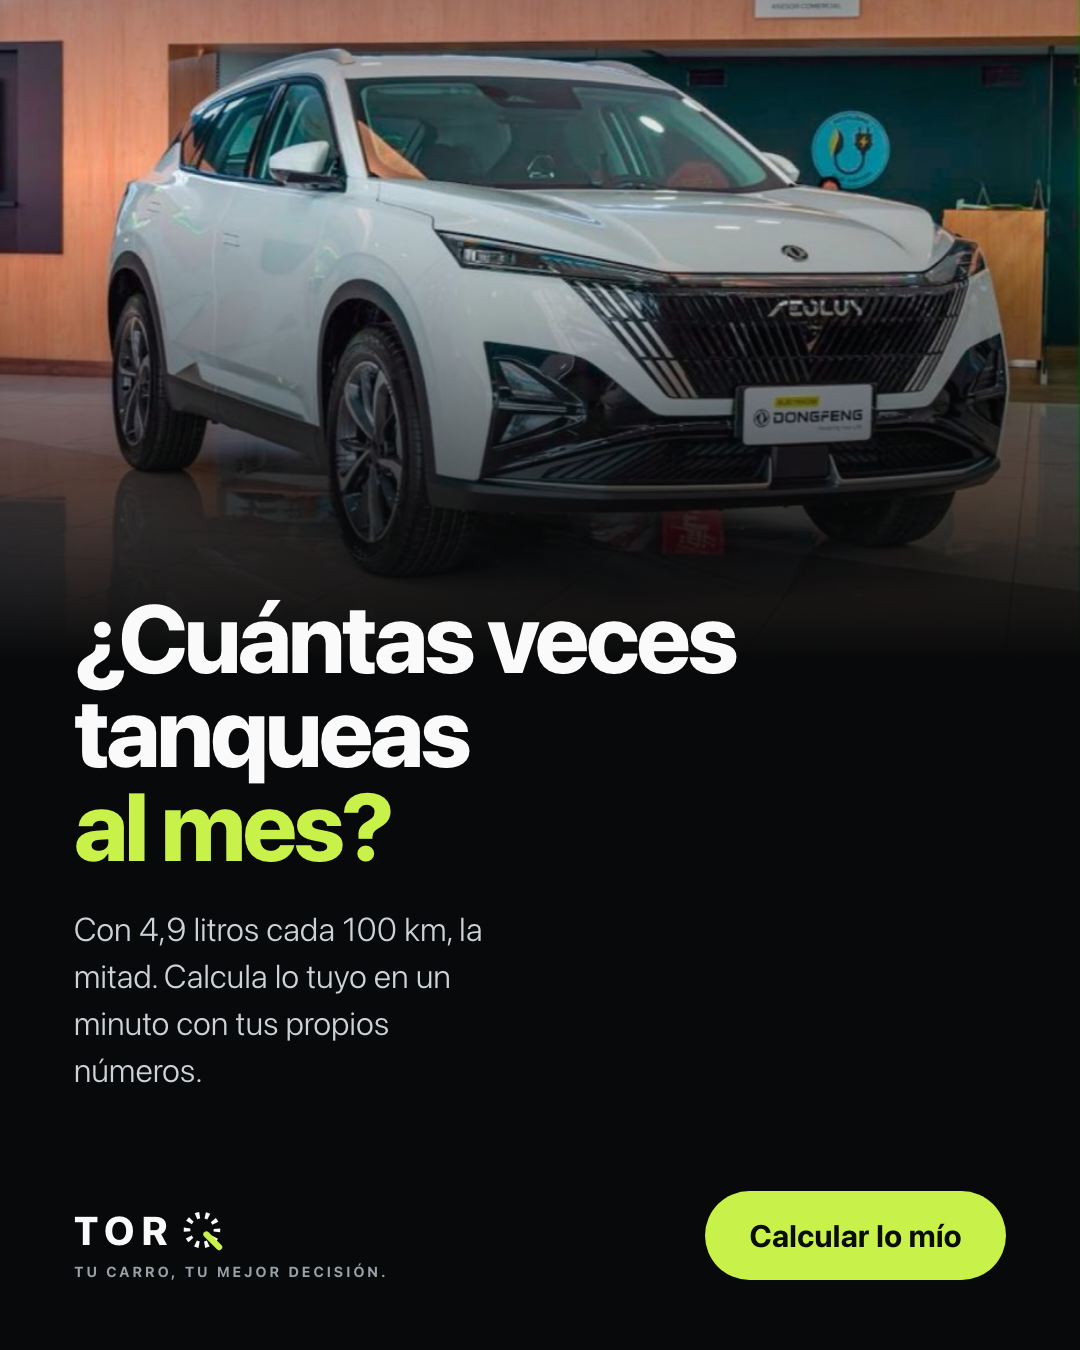
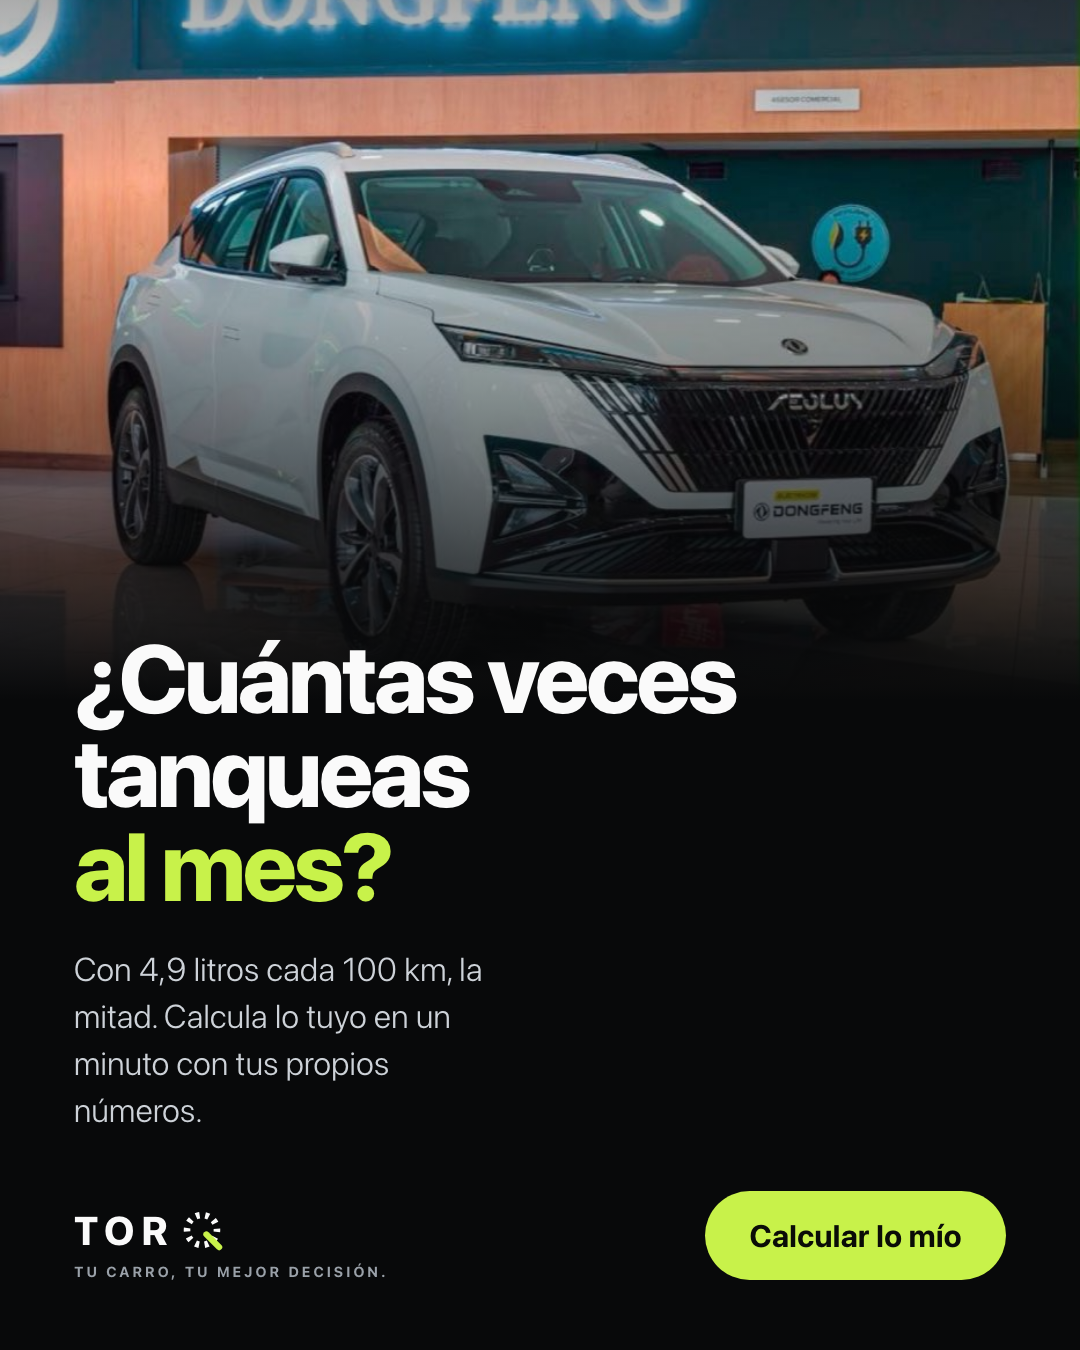
WhatsApp conectado, seleccion de piezas y encuadre corregido
- var WA = 573054310851: los botones y el calificador ya envian
- El tablero de piezas permite marcar me gusta / no va y dejar nota por pieza;
  se guarda en el navegador y se copia como texto para revisar juntos
- Encuadre: el vehiculo quedaba cortado en 9:16 y en cuadrada. Ahora cada
  formato recibe la foto cuya proporcion lo deja completo (verticales para
  stories, hero ancha para la banda cuadrada), con ajuste por object-position
- La regla de encuadre queda escrita en CLAUDE.md

diff --git a/piezas/index.html b/piezas/index.html
@@ -55,6 +55,29 @@ h1{font-size:clamp(32px,5vw,52px);font-weight:800;letter-spacing:-.032em;line-he
 footer{border-top:1px solid var(--line);margin-top:20px;padding:34px 0 64px;font-size:11.5px;color:var(--mut2);line-height:1.8}
 footer b{color:var(--mut)}
 
+/* ── selección: se guarda en el navegador de Daniel, no sale a ningún lado ── */
+.voto{display:flex;gap:8px;align-items:center;flex-wrap:wrap;margin-top:18px}
+.vb{border:1px solid var(--line);background:var(--surf);color:var(--mut);font-family:inherit;font-size:12.5px;font-weight:600;padding:10px 16px;border-radius:100px;cursor:pointer;transition:background .18s,color .18s,border-color .18s;min-height:42px}
+.vb:hover{color:var(--paper);border-color:#39404a}
+.vb:focus-visible{outline:2px solid var(--brand);outline-offset:2px}
+.vb[aria-pressed="true"].si{background:var(--brand);border-color:var(--brand);color:#0a0c07}
+.vb[aria-pressed="true"].no{background:#d95926;border-color:#d95926;color:#fff}
+.nota{flex:1;min-width:220px;background:#0b0e12;border:1px solid var(--line);border-radius:8px;color:var(--paper);font-family:inherit;font-size:13px;padding:11px 13px;resize:vertical;min-height:42px}
+.nota::placeholder{color:var(--mut2)}
+.nota:focus{outline:none;border-color:#39404a}
+.pieza.si{border-left:3px solid var(--brand);padding-left:18px}
+.pieza.no{border-left:3px solid #d95926;padding-left:18px;opacity:.55}
+
+.barra{position:sticky;bottom:0;z-index:70;background:rgba(8,9,10,.94);backdrop-filter:blur(14px);border-top:1px solid var(--line);padding:14px 0;margin-top:10px}
+.barra-in{max-width:1240px;margin:0 auto;padding:0 40px;display:flex;align-items:center;justify-content:space-between;gap:16px;flex-wrap:wrap}
+.cuenta{font-size:12.5px;color:var(--mut)}
+.cuenta b{color:var(--paper)}
+.acc{display:flex;gap:8px}
+.ok{background:var(--brand);color:#0a0c07;border:none;font-family:inherit;font-size:12.5px;font-weight:700;padding:12px 20px;border-radius:100px;cursor:pointer;min-height:44px}
+.gh{background:transparent;color:var(--mut);border:1px solid var(--line);font-family:inherit;font-size:12.5px;padding:12px 18px;border-radius:100px;cursor:pointer;min-height:44px}
+.gh:hover{color:var(--paper)}
+@media(max-width:900px){.barra-in{padding-left:20px;padding-right:20px}.acc{width:100%}.ok,.gh{flex:1}}
+
 @media(max-width:900px){
   .wrap,.nav-in{padding-left:calc(20px + env(safe-area-inset-left,0px));padding-right:calc(20px + env(safe-area-inset-right,0px))}
   .cuerpo{grid-template-columns:minmax(0,1fr);gap:22px}
@@ -89,7 +112,17 @@ footer b{color:var(--mut)}
 </div>
 
 <div id="app"></div>
+</div>
 
+<div class="barra"><div class="barra-in">
+  <div class="cuenta" id="cuenta"></div>
+  <div class="acc">
+    <button class="gh" id="limpiar">Empezar de nuevo</button>
+    <button class="ok" id="copiar">Copiar mi selección</button>
+  </div>
+</div></div>
+
+<div class="wrap">
 <footer>
   <b>Formatos:</b> 4:5 es el principal del feed · 1:1 sirve para feed y para Google Display · 9:16 es stories y reels, donde el alcance sale más barato.<br>
   <b>Cómo se cambian:</b> las piezas salen de <code>piezas.html</code>, el generador. Se edita el texto ahí y se vuelven a exportar — no se retocan a mano.<br>
@@ -149,8 +182,75 @@ document.getElementById("app").innerHTML=P.map(function(p){
         +'<div class="k">Destino</div><div class="v"><code>'+p.destino+'</code></div>'
       +'</div>'
     +'</div>'
+    +'<div class="voto">'
+      +'<button class="vb si" data-v="si" aria-pressed="false">Me gusta</button>'
+      +'<button class="vb no" data-v="no" aria-pressed="false">No va</button>'
+      +'<textarea class="nota" rows="1" placeholder="Qué le cambiarías (opcional)"></textarea>'
+    +'</div>'
   +'</div>';
 }).join("");
+
+/* ── selección ───────────────────────────────────────────────────────────
+   Vive en el navegador de quien revisa. No se envía a ningún servidor:
+   el botón de copiar arma un texto para pegarlo en la conversación. */
+var KEY="torq_piezas_v1";
+var sel={};
+try{ sel=JSON.parse(localStorage.getItem(KEY)||"{}") }catch(e){ sel={} }
+function save(){ try{ localStorage.setItem(KEY,JSON.stringify(sel)) }catch(e){} }
+
+var cards=document.querySelectorAll(".pieza");
+Array.prototype.forEach.call(cards,function(card,i){
+  var p=P[i], s=sel[p.id]||{};
+  var bs=card.querySelectorAll(".vb"), nota=card.querySelector(".nota");
+  function paint(){
+    Array.prototype.forEach.call(bs,function(b){
+      b.setAttribute("aria-pressed", String(s.v===b.dataset.v));
+    });
+    card.classList.toggle("si", s.v==="si");
+    card.classList.toggle("no", s.v==="no");
+  }
+  Array.prototype.forEach.call(bs,function(b){
+    b.addEventListener("click",function(){
+      s.v = (s.v===b.dataset.v) ? null : b.dataset.v;   // volver a tocar quita el voto
+      sel[p.id]=s; save(); paint(); cuenta();
+    });
+  });
+  nota.value=s.n||"";
+  nota.addEventListener("input",function(){ s.n=nota.value; sel[p.id]=s; save(); cuenta() });
+  paint();
+});
+
+function resumen(){
+  var si=[],no=[],pend=[];
+  P.forEach(function(p){
+    var s=sel[p.id]||{};
+    var linea=p.id+" · "+p.t+(s.n?" — "+s.n:"");
+    if(s.v==="si") si.push(linea); else if(s.v==="no") no.push(linea); else pend.push(p.id+" · "+p.t);
+  });
+  var t="Selección de piezas TORQ\n\n";
+  t+="ME GUSTAN ("+si.length+")\n"+(si.length?si.map(function(x){return "- "+x}).join("\n"):"- ninguna")+"\n\n";
+  t+="NO VAN ("+no.length+")\n"+(no.length?no.map(function(x){return "- "+x}).join("\n"):"- ninguna")+"\n\n";
+  t+="SIN MARCAR ("+pend.length+")\n"+(pend.length?pend.map(function(x){return "- "+x}).join("\n"):"- ninguna");
+  return t;
+}
+function cuenta(){
+  var si=0,no=0;
+  P.forEach(function(p){var v=(sel[p.id]||{}).v; if(v==="si")si++; else if(v==="no")no++});
+  document.getElementById("cuenta").innerHTML="<b>"+si+"</b> me gustan · <b>"+no+"</b> descartadas · <b>"+(P.length-si-no)+"</b> sin marcar";
+}
+
+document.getElementById("copiar").addEventListener("click",function(){
+  var b=this, t=resumen();
+  function fin(){ b.textContent="Copiado ✓"; setTimeout(function(){b.textContent="Copiar mi selección"},1800) }
+  if(navigator.clipboard && navigator.clipboard.writeText){
+    navigator.clipboard.writeText(t).then(fin,function(){ window.prompt("Copia este texto:",t) });
+  }else{ window.prompt("Copia este texto:",t) }
+});
+document.getElementById("limpiar").addEventListener("click",function(){
+  if(!window.confirm("¿Borrar toda la selección?"))return;
+  sel={}; save(); location.reload();
+});
+cuenta();
 })();
 </script>
 </body>

diff --git a/piezas.html b/piezas.html
@@ -16,9 +16,13 @@ body{background:#111;font-family:ui-sans-serif,system-ui,-apple-system,"Helvetic
 .pz.f916{width:1080px;height:1920px}
 
 .ph{position:relative;flex:0 0 auto;overflow:hidden}
-.f45 .ph{height:660px}
-.f11 .ph{height:470px}
+.f45 .ph{height:700px}
+.f11 .ph{height:560px}
 .f916 .ph{height:1010px}
+/* REGLA DE OFICIO: el vehículo va SIEMPRE completo — ni cortado ni lejano.
+   No se resuelve con CSS sino con dirección de arte: a cada formato se le asigna
+   la foto cuya proporción aguanta ese marco. Verticales para 9:16, anchas para
+   las bandas cortas. El encuadre fino se ajusta con `object-position` por pieza. */
 .ph img{width:100%;height:100%;object-fit:cover;display:block}
 /* el velo cierra la foto contra el negro: sin él el texto pelea con la imagen */
 .ph:after{content:"";position:absolute;inset:0;background:linear-gradient(180deg,rgba(8,9,10,.34) 0%,rgba(8,9,10,0) 26%,rgba(8,9,10,.62) 74%,var(--ink) 100%)}
@@ -29,11 +33,11 @@ body{background:#111;font-family:ui-sans-serif,system-ui,-apple-system,"Helvetic
 .f11 .body{padding:0 64px 56px}
 
 .hl{font-size:96px;font-weight:800;letter-spacing:-.035em;line-height:.98;margin-top:-70px}
-.f11 .hl{font-size:82px;margin-top:-54px}
+.f11 .hl{font-size:66px;margin-top:-46px}
 .f916 .hl{font-size:104px;margin-top:-84px}
 .hl em{font-style:normal;color:var(--brand)}
 .sub{font-size:33px;font-weight:300;color:#cdd2d8;line-height:1.42;margin-top:34px;max-width:22ch}
-.f11 .sub{font-size:29px;margin-top:26px}
+.f11 .sub{font-size:25px;margin-top:20px;max-width:26ch}
 .f916 .sub{font-size:35px;margin-top:38px}
 
 .foot{display:flex;align-items:flex-end;justify-content:space-between;gap:30px;margin-top:56px}
@@ -86,17 +90,25 @@ function lock(){
     +'<div class="tag">Tu carro, tu mejor decisión.</div></div>';
 }
 
+/* `img` es el respaldo; img45/img11/img916 mandan cuando existen.
+   La asignación no es capricho: cada foto entra donde su proporción deja el
+   carro entero. g1 y hero-movil son verticales (9:16); hero es muy ancha y
+   sirve para la banda corta de la cuadrada; g2 y g3 son 3:2 y encajan en 4:5. */
 var P = {
-  H1:{img:"img/g1.jpg", hl:'¿Cuántas veces<br>tanqueas<br><em>al mes?</em>',
+  H1:{img:"img/g1.jpg", img11:"img/hero.jpg", pos:"center 42%",
+      hl:'¿Cuántas veces<br>tanqueas<br><em>al mes?</em>',
       sub:"Con 4,9 litros cada 100 km, la mitad. Calcula lo tuyo en un minuto con tus propios números.",
       cta:"Calcular lo mío"},
-  H2:{img:"img/hero.jpg", hl:'Híbrida que<br><em>nunca vas<br>a enchufar.</em>',
+  H2:{img:"img/hero.jpg", img916:"img/hero-movil.jpg", pos:"center 46%",
+      hl:'Híbrida que<br><em>nunca vas<br>a enchufar.</em>',
       sub:"Se recarga sola mientras andas. Sin cargador, sin instalación en la casa, sin buscar estación.",
       cta:"Ver cómo funciona"},
-  H3:{img:"img/g2.jpg", hl:'Bogotá–Medellín,<br>ida y vuelta,<br><em>con un tanque.</em>',
+  H3:{img:"img/g2.jpg", img916:"img/g1.jpg", pos:"center 44%",
+      hl:'Bogotá–Medellín,<br>ida y vuelta,<br><em>con un tanque.</em>',
       sub:"830 km de los más de 1.000 de autonomía. Sin parar a tanquear.",
       cta:"Ver la ficha"},
-  H4:{img:"img/g5.jpg", hl:'«¿Y dónde le hago<br>los mantenimientos?»',
+  H4:{img:"img/g6.jpg", img11:"img/g5.jpg", pos:"center 40%",
+      hl:'«¿Y dónde le hago<br>los mantenimientos?»',
       sub:"Es la primera pregunta que hace todo el mundo. La respuesta son 26 centros de servicio en 19 ciudades del país.",
       cta:"Ver el más cercano"},
   S1:{sim:true, t:'Lo que te estás<br><em>gastando de más.</em>',
@@ -126,7 +138,7 @@ function render(id,fmt){
     +'</div>';
   }
   return '<div class="pz '+f+'" id="canvas">'
-    +'<div class="ph"><img src="'+d.img+'" alt=""></div>'
+    +'<div class="ph"><img src="'+(d["img"+fmt]||d.img)+'" style="object-position:'+(d.pos||"center")+'" alt=""></div>'
     +'<div class="body">'
       +'<div><div class="hl">'+d.hl+'</div><div class="sub">'+d.sub+'</div></div>'
       +'<div class="foot">'+lock()+'<div class="cta">'+d.cta+'</div></div>'

diff --git a/index.html b/index.html
@@ -628,7 +628,7 @@ a:focus-visible,button:focus-visible{outline:2px solid var(--acc);outline-offset
    ÚNICO punto a tocar: el número de la línea, en formato internacional
    sin "+" ni espacios. Ej: "573001234567". Vacío = el calificador
    funciona pero no envía (útil para revisar sin generar leads reales). */
-var WA="";
+var WA="573054310851";
 
 var TQ=(function(){
   /* El código de campaña viaja en la URL del anuncio (?c=A-BOG-REFORMA)

diff --git a/CLAUDE.md b/CLAUDE.md
@@ -89,6 +89,25 @@ el obstáculo. TORQ resuelve antes de la visita, no en lugar de la visita.
 Toda afirmación en condicional cuando el hecho lo es (`pasaría`, `podrías`), en
 indicativo cuando está probado. Un condicional mal puesto es una promesa.
 
+## Encuadre del vehículo — regla de oficio
+
+**El carro va siempre completo.** Ni tan lejos que no se lea, ni tan cerca que quede
+cortado. Una llanta o un techo fuera de cuadro en una pieza de automotriz destruye la
+credibilidad antes de que alguien lea el titular.
+
+No se resuelve con CSS: se resuelve asignando a cada formato la foto cuya proporción
+aguanta ese marco. En `piezas.html` cada pieza declara `img` (respaldo) y opcionalmente
+`img45` / `img11` / `img916`, más `pos` para el ajuste fino de `object-position`.
+
+| Formato | Marco de foto | Fuentes que sirven |
+|---|---|---|
+| 4:5 | 1080×700 (1,54:1) | g2, g3 (1,50:1) · g1 vertical también entra |
+| 1:1 | 1080×560 (1,93:1) | hero (2,07:1) — es la única banda ancha |
+| 9:16 | 1080×1010 (1,07:1) | g1, hero-movil, g4, g8 (verticales) |
+
+Antes de dar una pieza por buena, mírala. Un contacto con los tres formatos lado a lado
+delata el recorte en dos segundos; el HTML solo, no.
+
 ## Datos
 
 Todas las cifras salen de fuentes citadas al pie de cada página (Fenalco-ANDI y Sufi,
